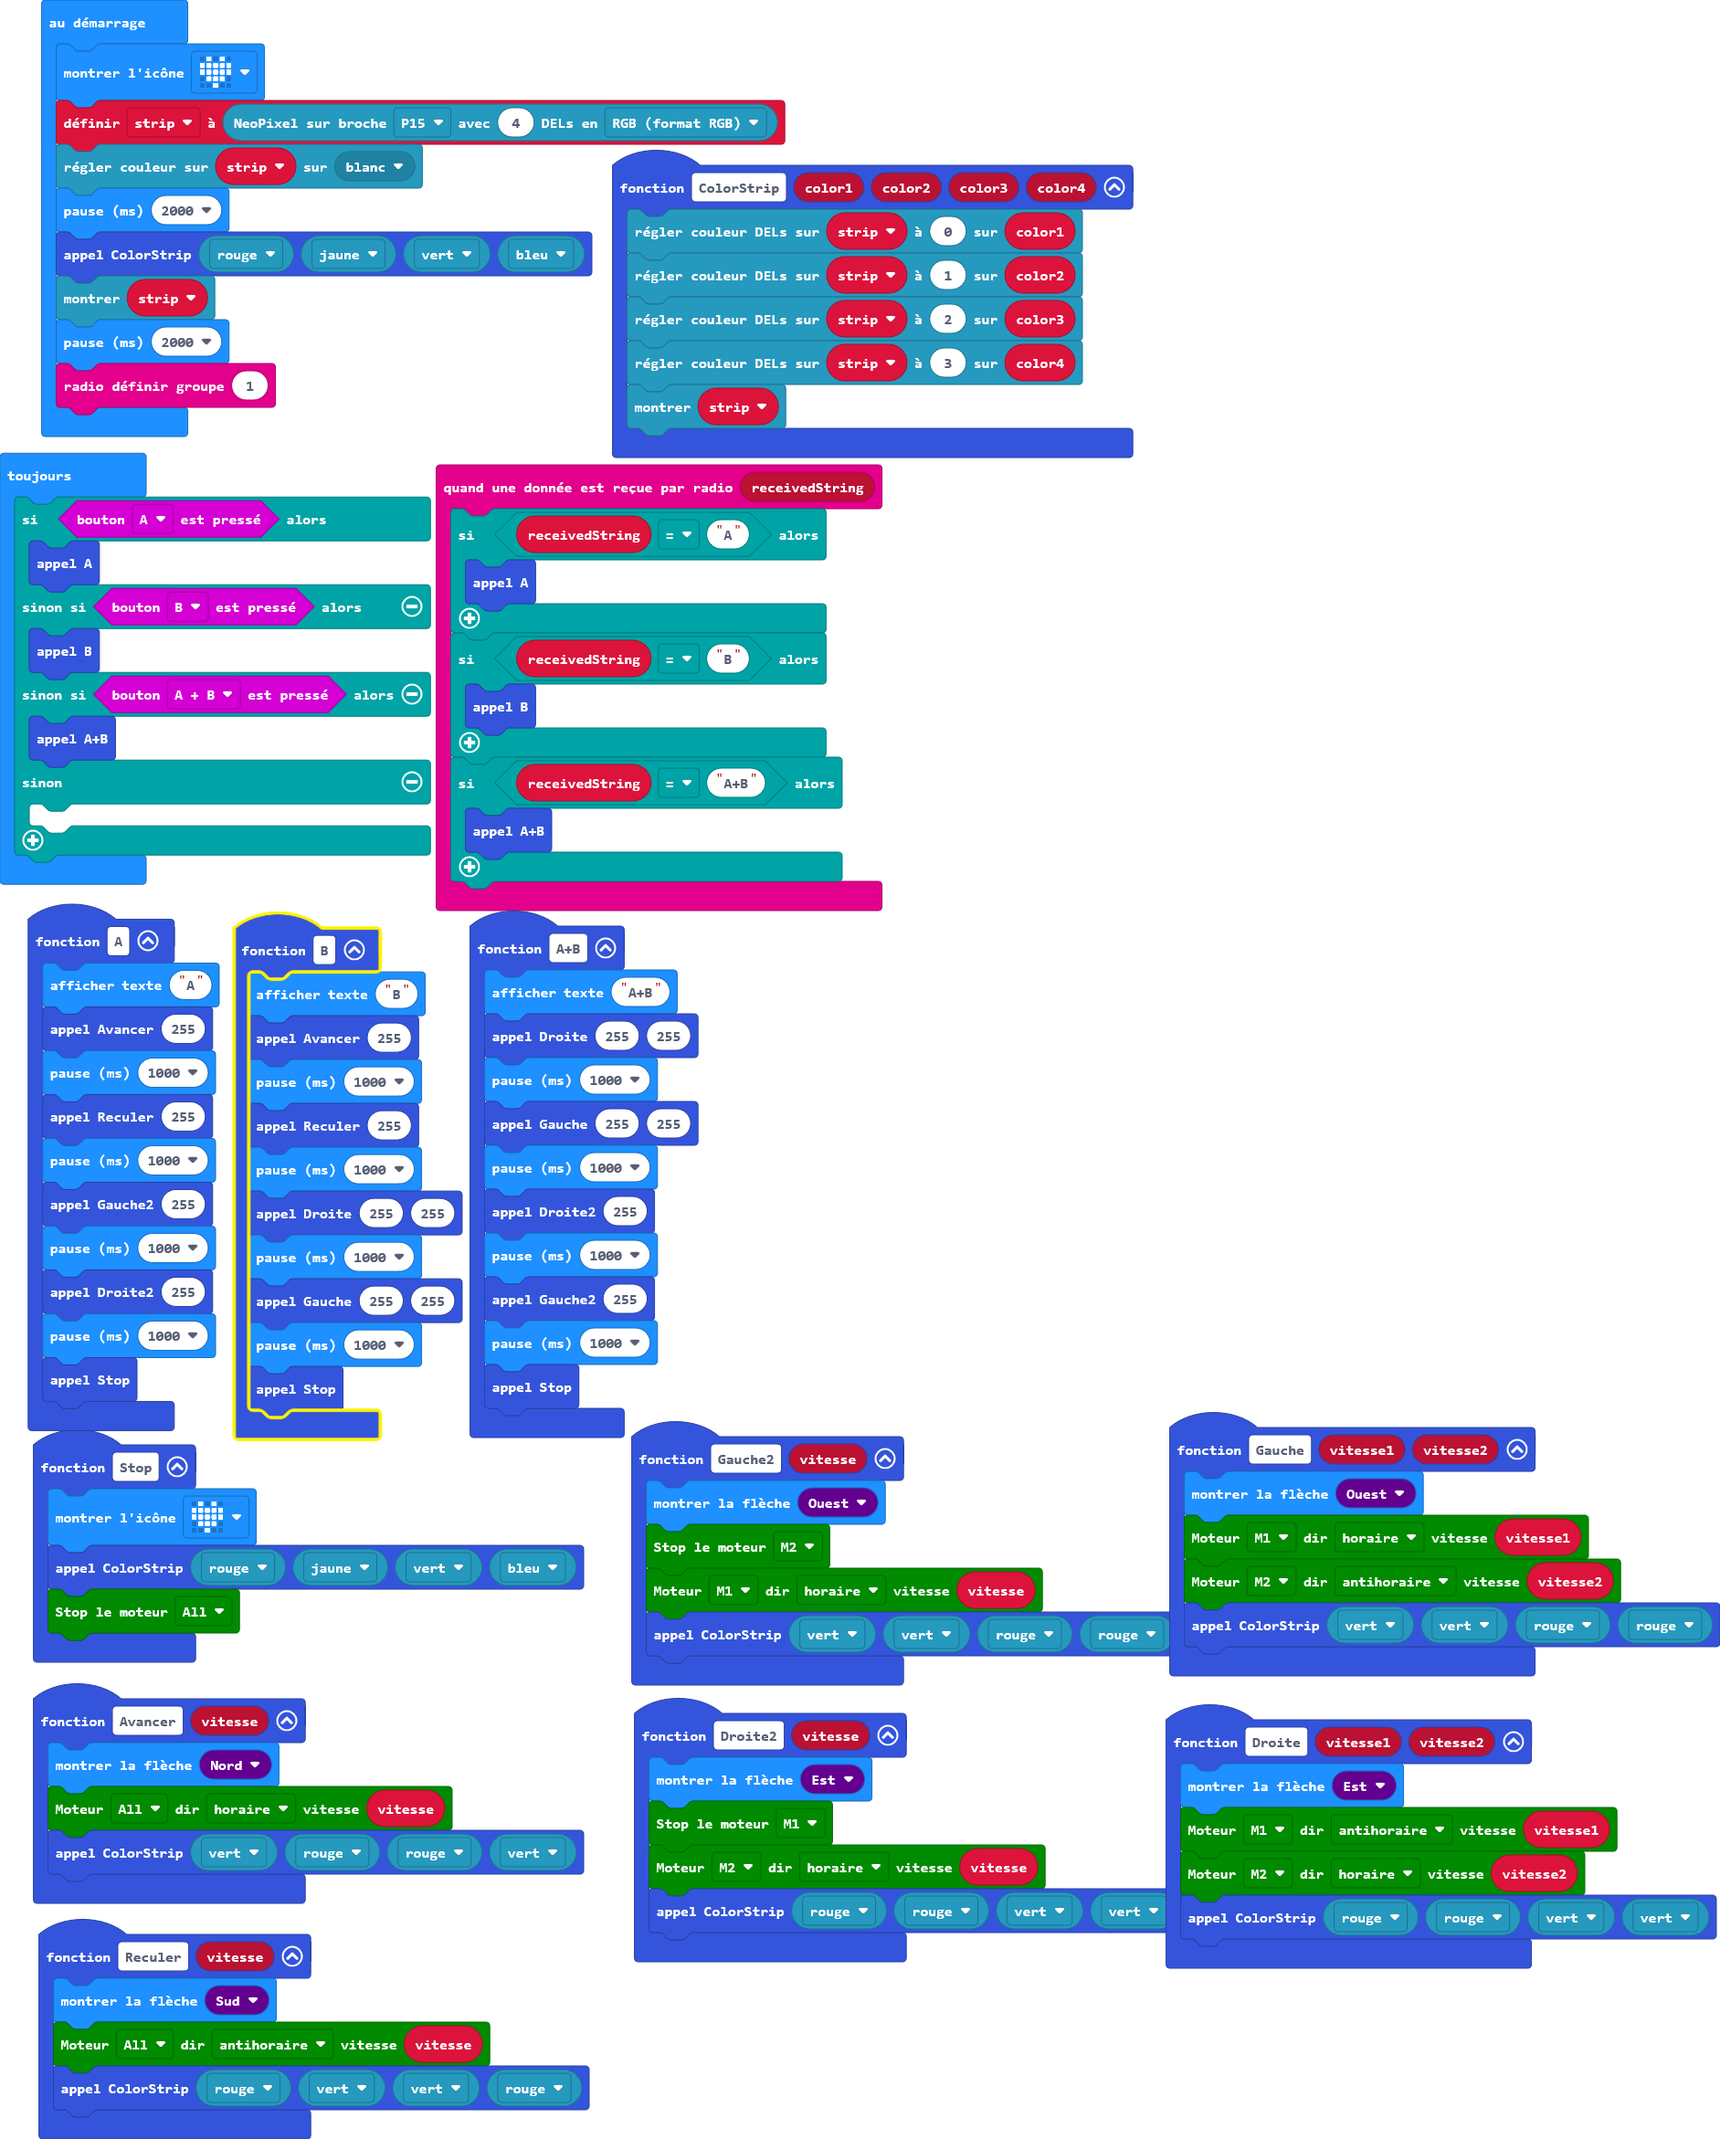
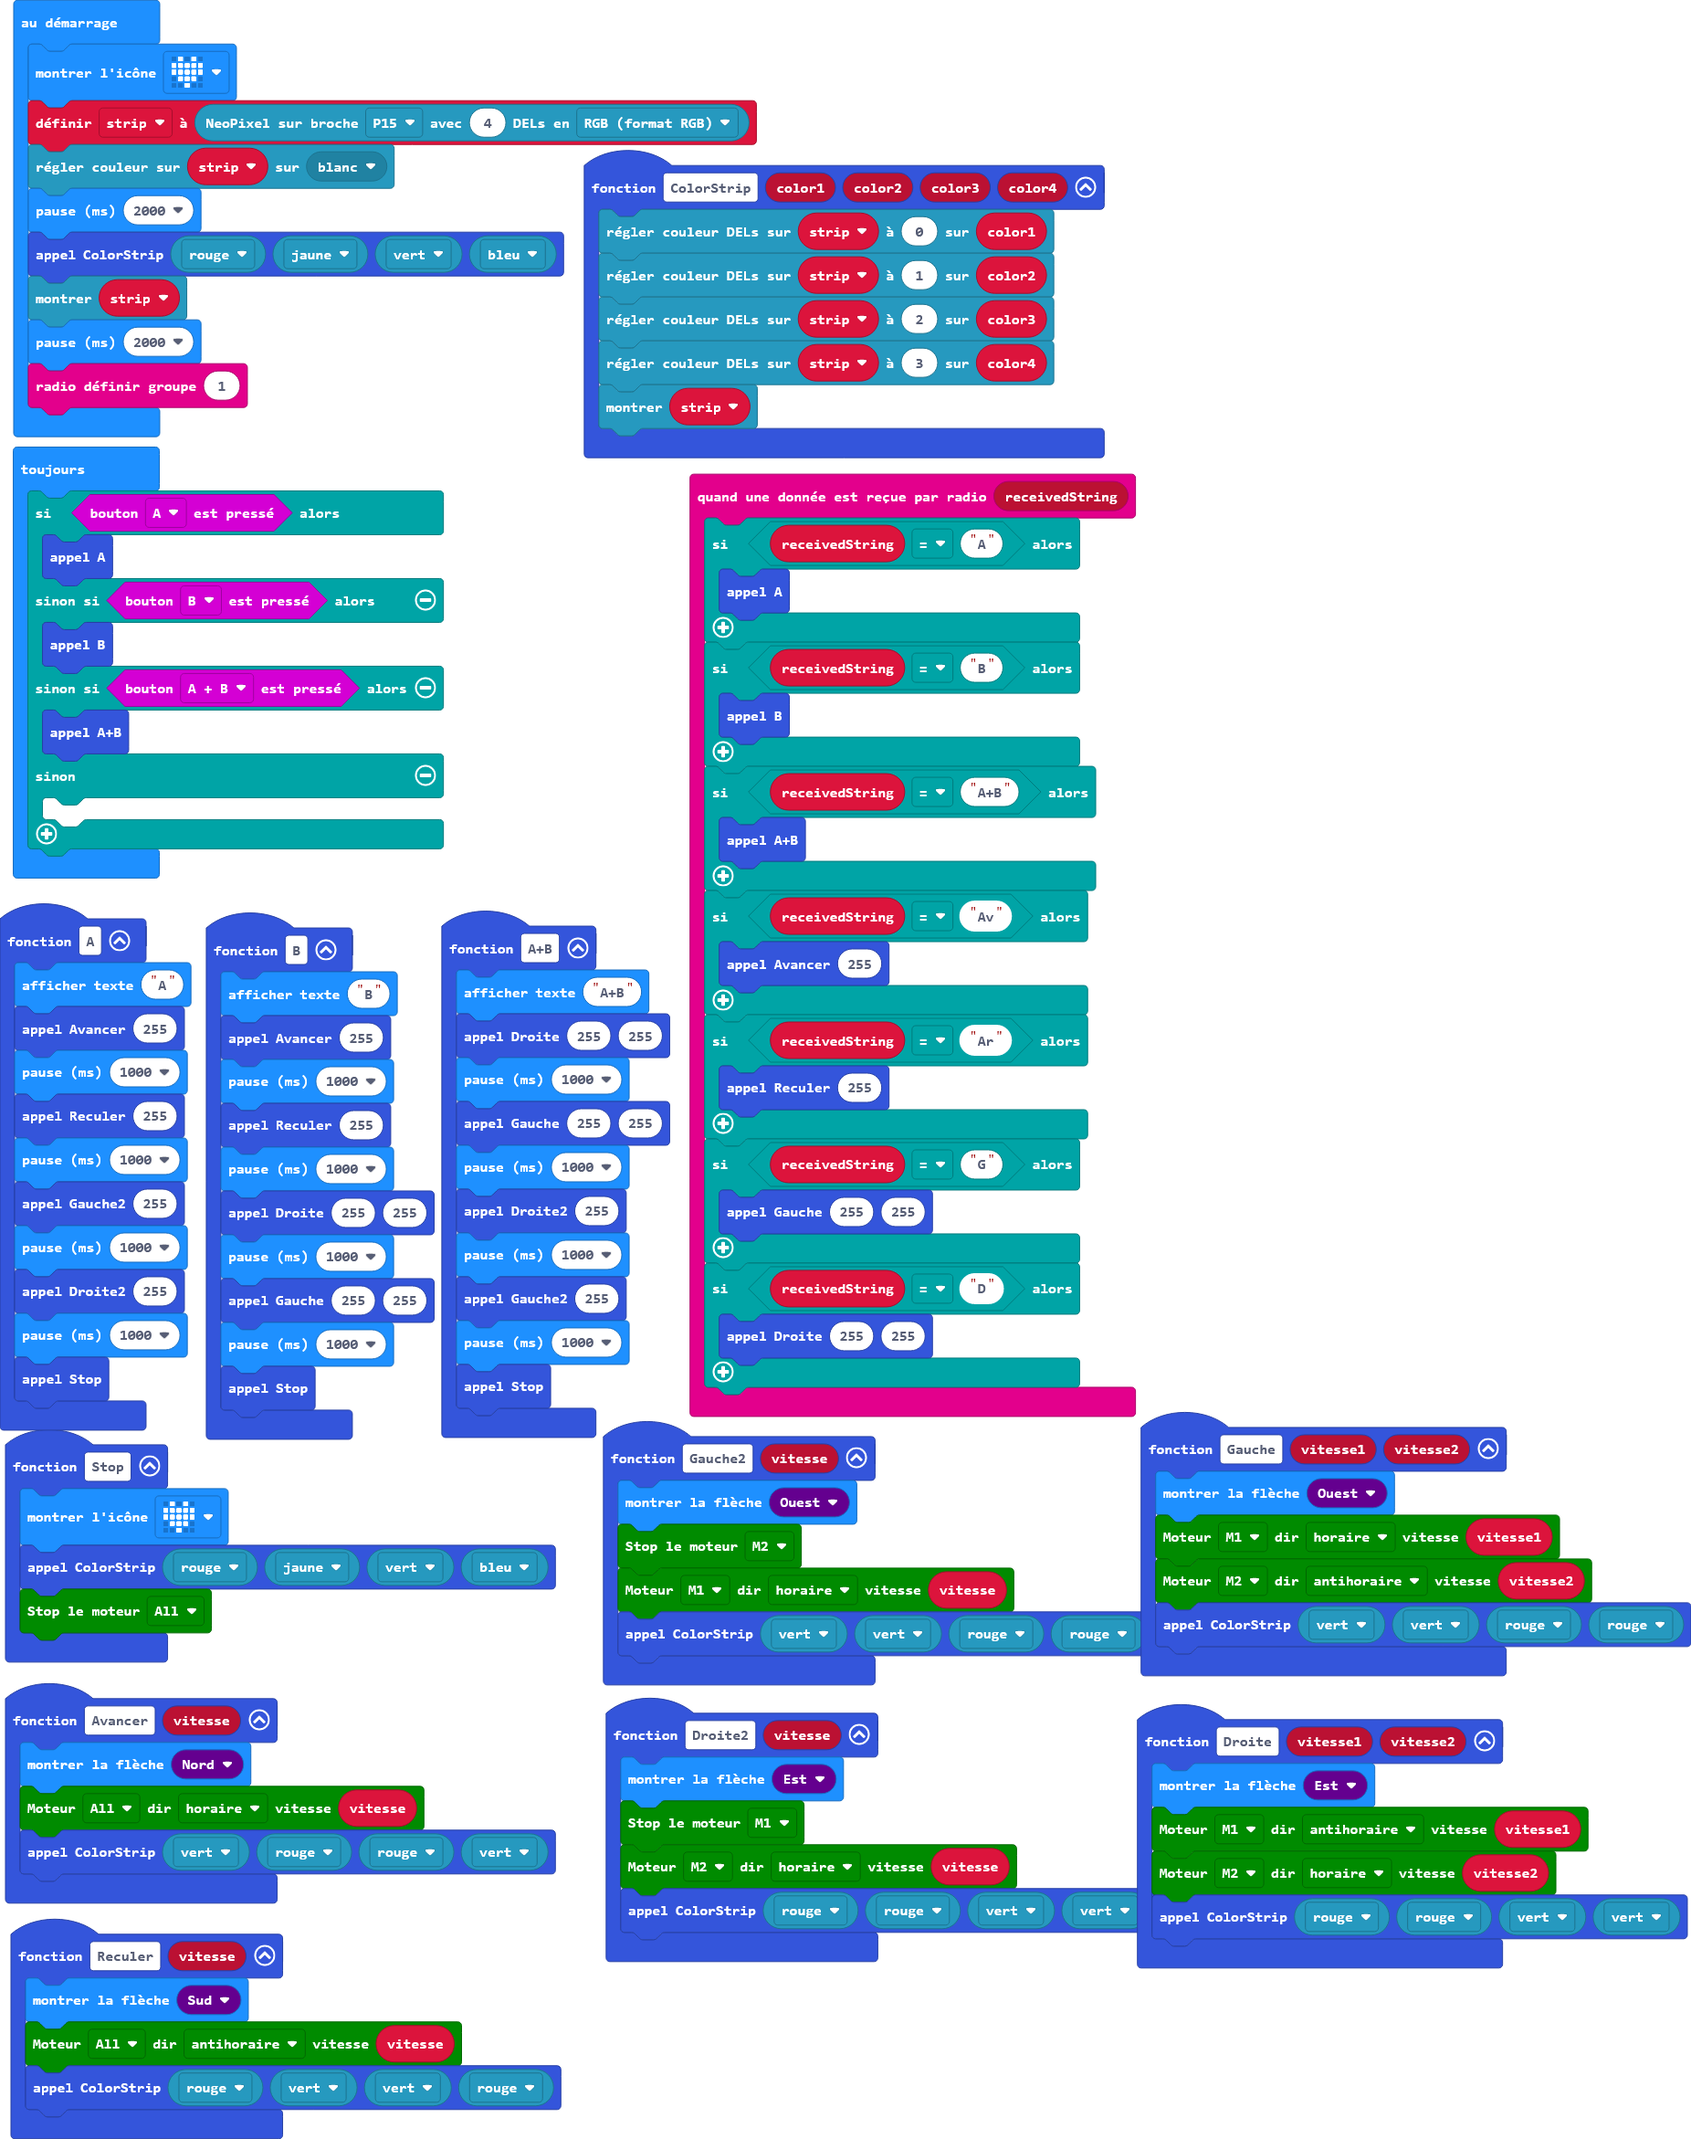
Mise à jour main.blocks, main.ts

Changed region(s): [[0.0, 0.0, 0.9541, 1.0]]

diff --git a/main.ts b/main.ts
@@ -56,6 +56,18 @@ radio.onReceivedString(function (receivedString) {
     if (receivedString == "A+B") {
         AB()
     }
+    if (receivedString == "Av") {
+        Avancer(255)
+    }
+    if (receivedString == "Ar") {
+        Reculer(255)
+    }
+    if (receivedString == "G") {
+        Gauche(255, 255)
+    }
+    if (receivedString == "D") {
+        Droite(255, 255)
+    }
 })
 function Avancer (vitesse: number) {
     basic.showArrow(ArrowNames.North)
